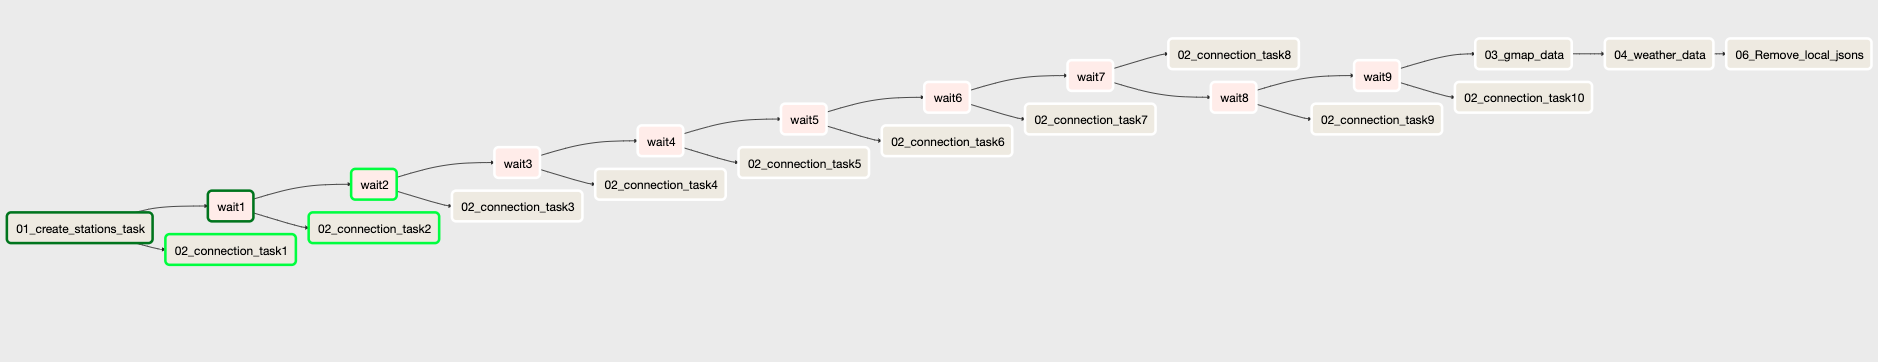
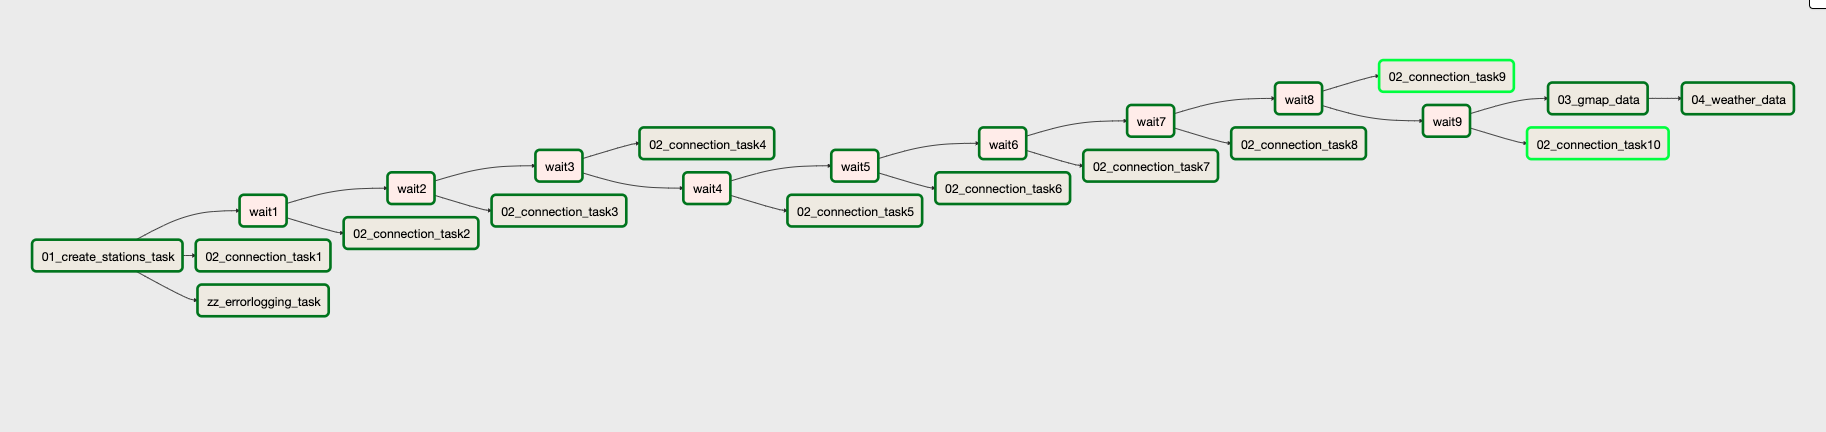
readme: update

diff --git a/readme.md b/readme.md
@@ -48,6 +48,10 @@ In the long run, one could think about making individual operators for these pur
 I chose S3 and the json format, since it is the most natural way to store this data (since the API request result in single a single json file per record). In this way the raw data can be stored flexible and marked accordingly when loaded to the database. Therfore I have perfect control, what data was already loaded, what was not yet loaded and when what was loaded.
 Also concerning costs it is - according to my current knowledge - the most sufficient way for this process.
 
+### Quality check
+As a second step the Airflow dag carries out a data quality check. As each task in the dag logs everything they do in a local error log file (e.g. in case a single request causes an error and error gets locked, see files below for more details on that), after one dag run there are many log files on the local drive. It would be interesting to find very quick only the relvant error, i.e. to find out what request caused an error and why.
+Therefore the zz_errorlogging_task runs through all locally saved log files and searches for the word "error:". If it is found, these messages are gathered in a json file with the logfilename as key. After that all logfiles from a specific point of time are transferred to time-stamped folder in a S3 bucket an deleted from local drive.
+
 ### Relevant files
 
 All confidential data is stored in a local config file and loaded to the cripts via configparser.
@@ -66,6 +70,9 @@ This script gathers the weather data.
 
 #### airflow/dags/sbmd01_web_dat_gathering.py
 The mentioned above dag.
+
+#### zz_check_01_logs.py
+See Quality checks part on that. This python script is carried out in the errorlogging task.
 
 ## Data transferring
 This process is about aggregating and transforming the json data from the step before and transfer it into Postgres tables (running on a AWS RDS service).
